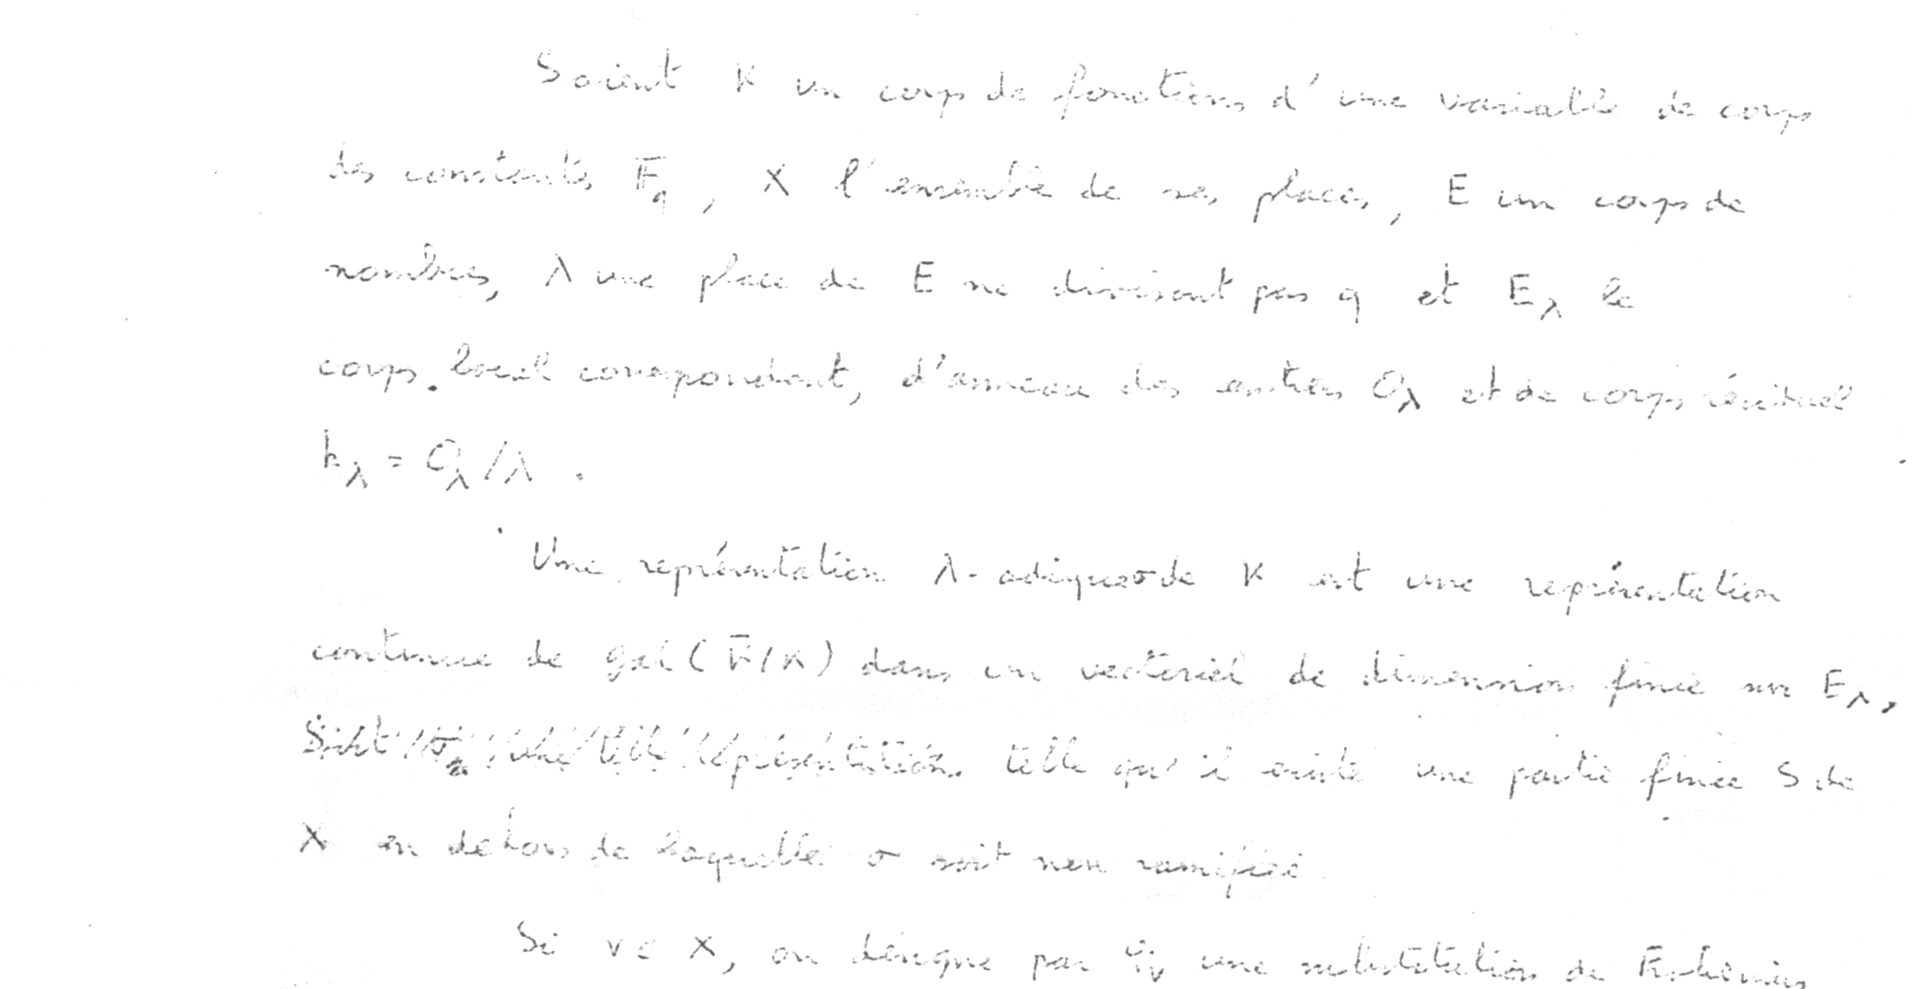
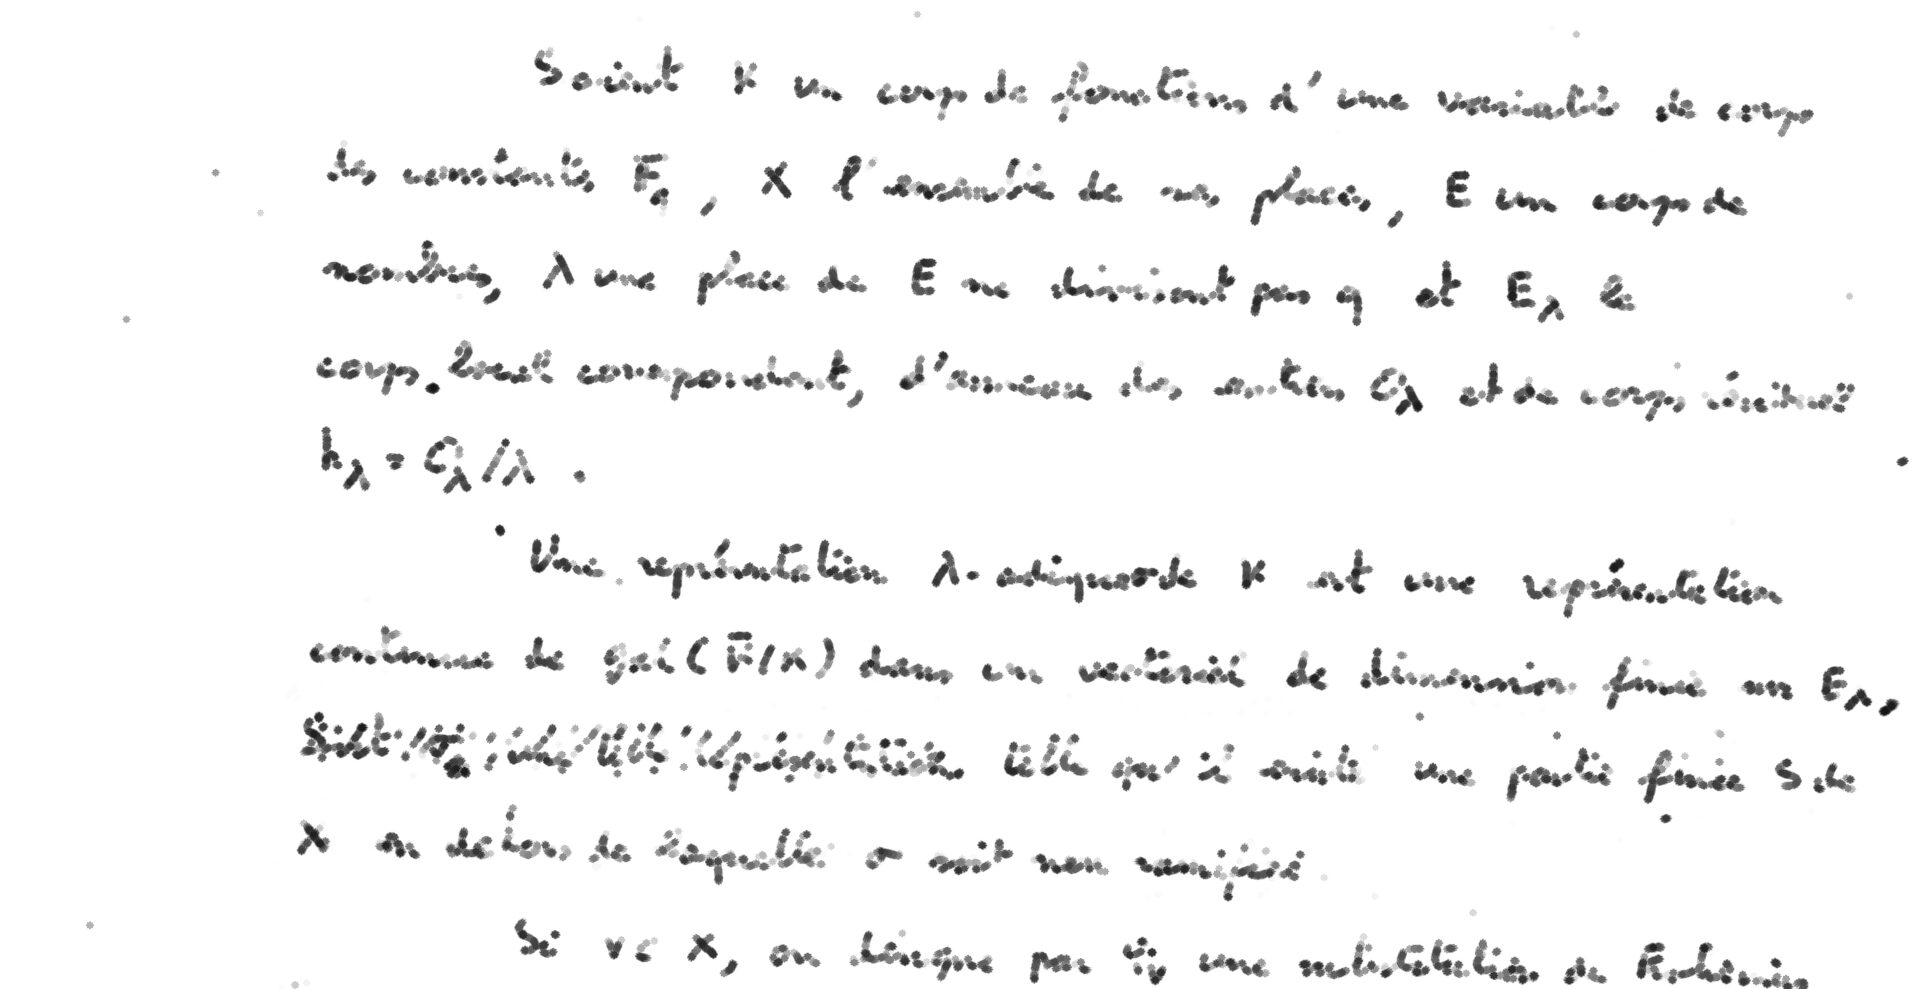
Opening film: the letter behind the title about as strong as the Galois page was
Its pencil darkened and thickened a little (it was much fainter than the
ink of the Galois letter at the same opacity).

diff --git a/site-assets/CREDITS.md b/site-assets/CREDITS.md
@@ -4,7 +4,8 @@
 Bures-sur-Yvette, 1 July 1969 (the part after the heading "1. Représentations
 λ-adiques, d'après Serre et Grothendieck"), supplied by the project as
 `background.pdf`. Cropped, converted to greyscale, its paper whitened and its
-ink lightened for the site's opening.
+pencil darkened and thickened a little, so that it shows about as strongly as
+a page in ink, for the site's opening.
 
 The handwritten title of the opening (`intro.md`, written by
 `scripts/intro_title.py`) is set in Naija Easy Handwritting (Regular,
